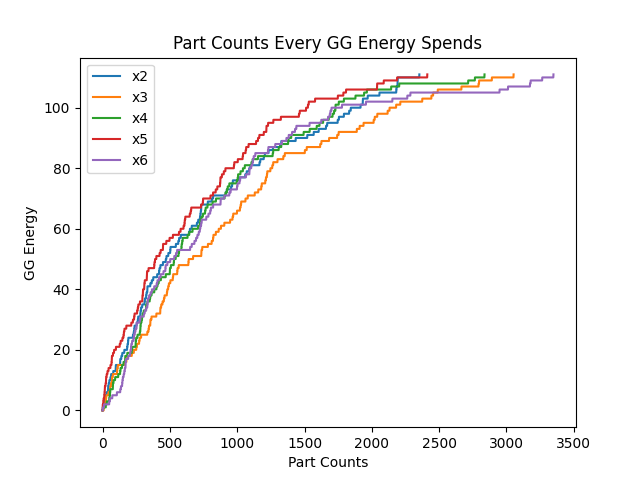
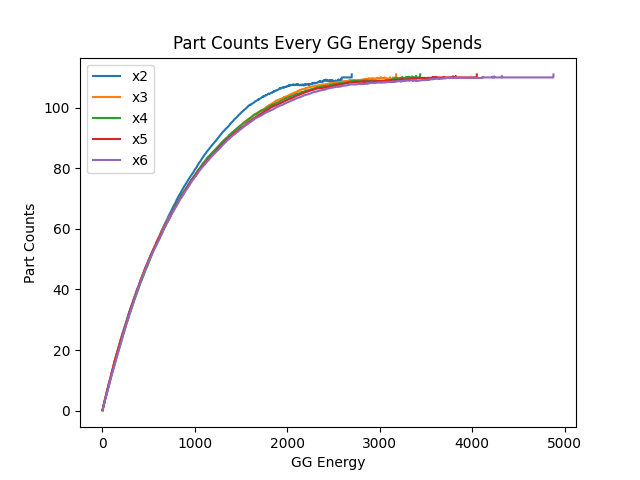
Energy spend graphic calculation improved.

diff --git a/calculate_gg_tries.py b/calculate_gg_tries.py
@@ -1,6 +1,7 @@
 import random
 
 import matplotlib.pyplot as plt
+import numpy
 import numpy as np
 
 
@@ -10,6 +11,7 @@ def calculate_gg_tries(gate_size, ratios, gate_part_count_which_already_have=0, 
         use_multiplier_when = x
 
         results_arr = []
+        gate_part_counts_matrix = []
         for j in range(100):
             gate_part_counts = []
             gate_parts = np.zeros(gate_size)
@@ -39,17 +41,29 @@ def calculate_gg_tries(gate_size, ratios, gate_part_count_which_already_have=0, 
                 gate_part_counts.append(gate_parts.sum())
                 i += 1
             results_arr.append(i)
-            if j == 0:
-                if show_charts:
-                    plt.plot(range(i), gate_part_counts)
+            gate_part_counts_matrix.append(gate_part_counts)
+
         result = np.array(results_arr)
         print("Multiplier:", use_multiplier_when, "/ Avg GG Energy:", result.mean(), "/ Min GG Energy:", result.min(),
               "/ Max GG Energy:", result.max())
         all_results.append(result.mean())
+        if show_charts:
+            max_tries = max(map(len, gate_part_counts_matrix))
+            gate_parts_count_avg = []
+            for i in range(max_tries):
+                summ = 0
+                c = 0
+                t = []
+                for j in range(100):
+                    if len(gate_part_counts_matrix[j]) > i:
+                        summ += gate_part_counts_matrix[j][i]
+                        c += 1
+                gate_parts_count_avg.append(summ/c)
+            plt.plot(range(1, max_tries + 1), gate_parts_count_avg)
     if show_charts:
         plt.legend(["x2", "x3", "x4", "x5", "x6"])
-        plt.xlabel("Part Counts")
-        plt.ylabel("GG Energy")
+        plt.ylabel("Part Counts")
+        plt.xlabel("GG Energy")
         plt.title("Part Counts Every GG Energy Spends")
         plt.show()
     return all_results

diff --git a/README.md b/README.md
@@ -40,5 +40,7 @@ Multiplier: 5 / Avg GG Energy: 2599.38 / Min GG Energy: 1755 / Max GG Energy: 32
 Multiplier: 6 / Avg GG Energy: 2873.3 / Min GG Energy: 1969 / Max GG Energy: 4102
 ```
 ![Multiplier and GG Energy](Multiplier_and_GG_Energy(Zeta).png)
+### Without full nano body
 ![Part Counts Every GG GEnergy Spends](Part_Counts_Every_GG_Energy_Spends(Zeta).png)
+### With full nano body
 ![Multiplier and GG Energy With Full Nano](Multiplier_and_GG_Energy_With_Full_Nano(Zeta).png)
